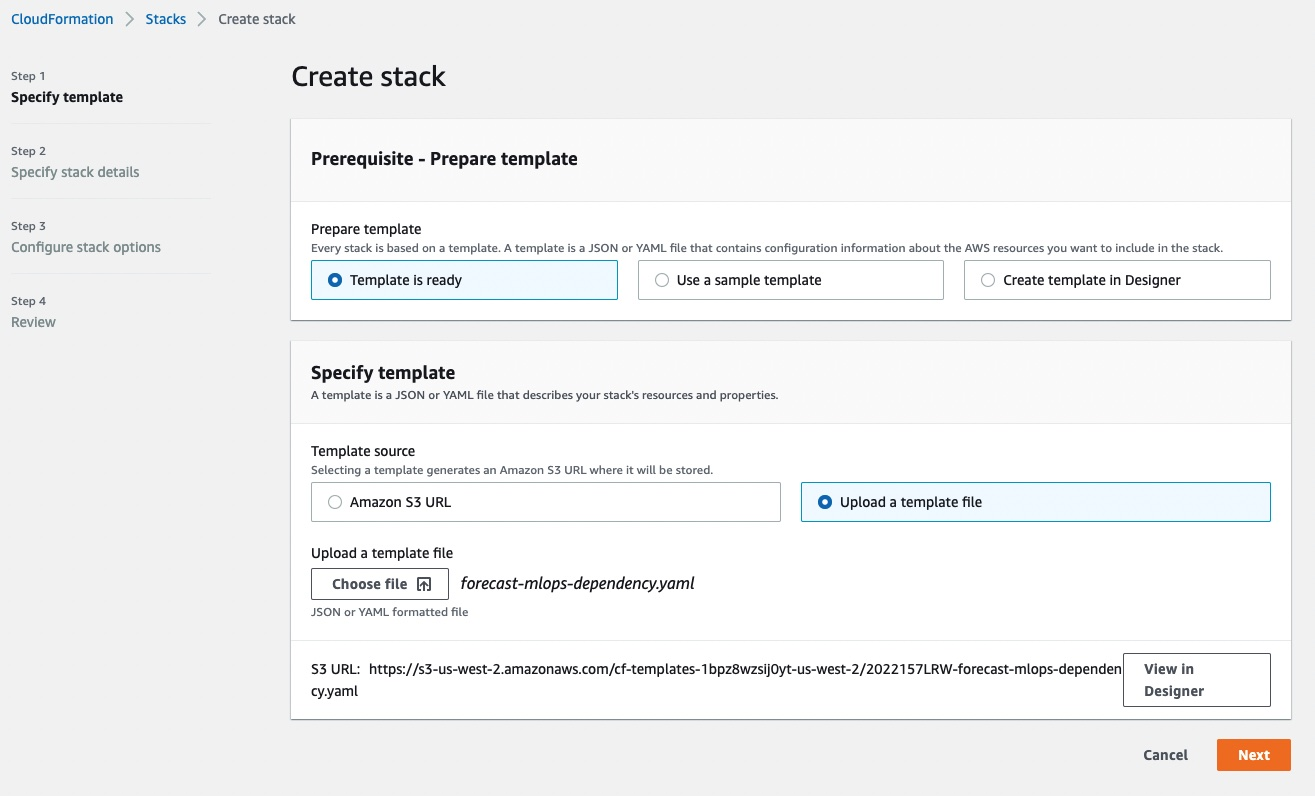
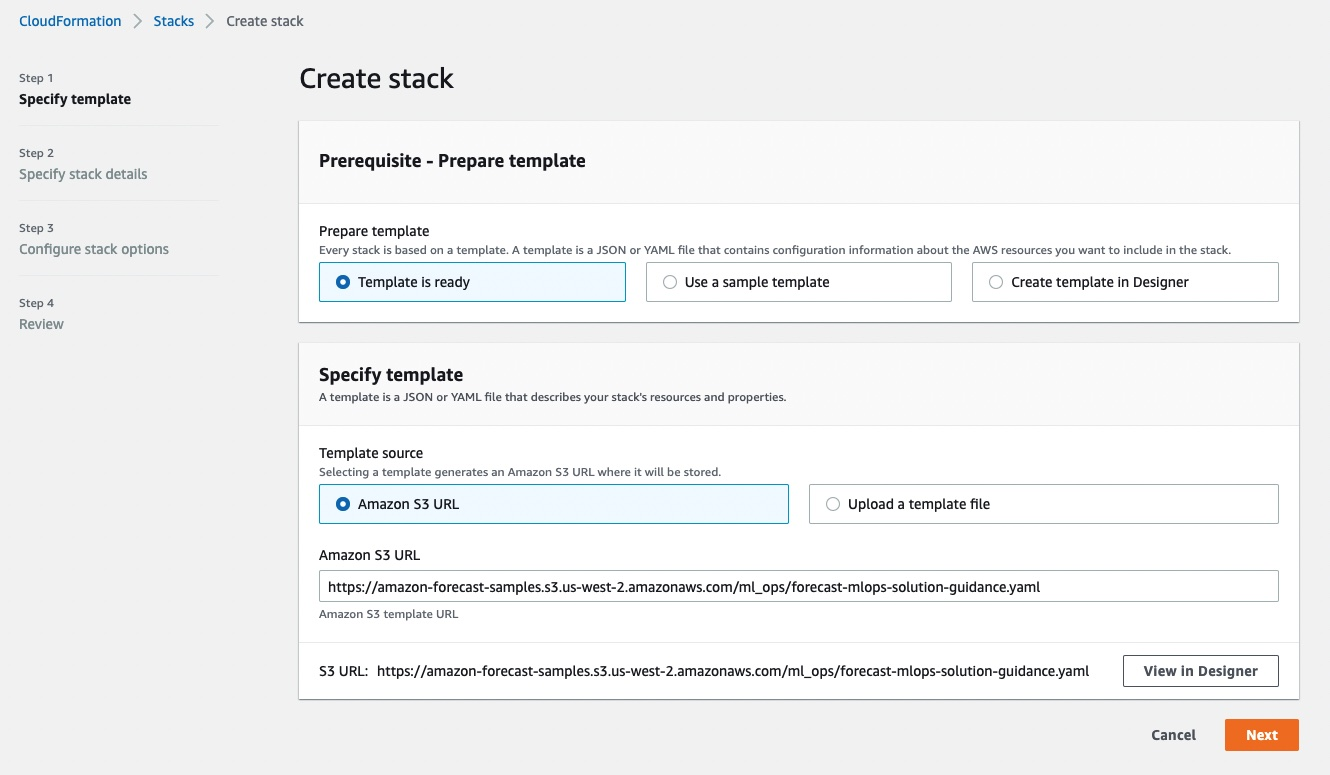
enabled optional item metadata and RTS datasets

diff --git a/ml_ops/SolutionGuidance.md b/ml_ops/SolutionGuidance.md
@@ -3,11 +3,16 @@
 You may repeat this process as a quick start for each use case you intend to deploy.  Each use case is separated by virtue of being an independent CloudFormation stack.
 
 1. In the AWS console, select the desired region for workload deployment.  The Amazon Forecast service is available in these [AWS Regions](https://docs.aws.amazon.com/general/latest/gr/forecast.html).  The region selector can be found, as a dropdown, right-of-center on the black menu bar in the AWS Console.  Choose the option that best meets your needs, but do take care to choose a region where AWS Forecast is available.
-2. From the AWS Console, navigate to the CloudFormation service.  You can do this by tying CloudFormation in the "search for services" control in the black menu bar.  Next, click the orange "Create Stack" button.
+2. From the AWS Console, navigate to the CloudFormation service.  You can do this by tying CloudFormation in the "search for services" control in the black menu bar.  Next, click the orange "Create Stack" button.  If using the drop down, select "with new resources (Standard)" option.
 
-3. At stack creation, "[Step 1: Specify template](./images/create-solution-guidance-stack-1.jpg)", in the specify template section, click upload template radio control and then provide the filename as forecast-mlops-solution-guidance.yaml.  If you haven't already, you may [download the file](forecast-mlops-solution-guidance.yaml) locally, and then specify the location of the files.  Click Next to continue.
+3. At stack creation, "[Step 1: Specify template](./images/create-solution-guidance-stack-1.jpg)", simply paste the URL string into the control as follows:
 
-4. At stack creation, "Step 2: Specify stack details", several parameters are collected that define how the entire workload behaves.  You can edit these according to each use case.  You might also elect to save a template with your own desired default values.  
+	 ```https://amazon-forecast-samples.s3.us-west-2.amazonaws.com/ml_ops/forecast-mlops-solution-guidance.yaml```
+
+	If needed, you may [download the file](https://amazon-forecast-samples.s3.us-west-2.amazonaws.com/ml_ops/forecast-mlops-solution-guidance.yaml) locally or clone using git.
+4. Click Next to continue.
+
+5. At stack creation, "Step 2: Specify stack details", several parameters are collected that define how the entire workload behaves.  You can edit these according to each use case.  You might also elect to save a template with your own desired default values.  
 
 As delivered, there is a demo set of data.  For learning, you may accept all these fields as-is, but you will need to provide a S3Bucket and SNSEndpoint value -- these are the only two blank items below.  If you are learning, you can skip to step 5; however, if you are configuring this for your use case, pay particular attention to each.  Many of these fields are editable later, to change how your workload behaves at runtime.
 
@@ -16,9 +21,11 @@ The following table helps define each parameter.
 | Parameter | Description | More Information |
 |--|--|--|
 | Stack name |  Provide the stack name as a short name that represents the use case.  This must be unique, please take care not to include characters other than A through Z and numbers 0 through 9.  Example stack names are:  workload1, RegionXYZWeeklyDemand. |
-|DatasetGroupFrequencyRTS|The frequency of data collection for RELATED TIME SERIES dataset||
-|DatasetGroupFrequencyTTS|The frequency of data collection for TARGET TIME SERIES dataset||
+|DatasetGroupFrequencyRTS|The frequency of data collection for RELATED TIME SERIES dataset|select from dropdown|
+|DatasetGroupFrequencyTTS|The frequency of data collection for TARGET TIME SERIES dataset|select from dropdown|
 |DatasetGroupName|Short name for dataset group, a self-contained workload.|[CreateDatasetGroup](https://github.com/awsdocs/amazon-forecast-developer-guide/blob/main/doc_source/API_CreateDatasetGroup.md)|
+|DatasetIncludeItem|Do you wish to provide item metadata for this use-case?|select from dropdown
+|DatasetIncludeRTS|Do you wish to provide a related time series (RTS) for this use-case?|select from dropdown
 | ForecastForecastTypes| When a CreateForecast job runs, this declares which quantiles to produce predictions for.  You may choose up to 5 values in this array.  Edit this value to include values according to need.| [CreateForecast](https://github.com/awsdocs/amazon-forecast-developer-guide/blob/main/doc_source/API_CreateForecast.md)
 |PredictorAttributeConfigs | For the target variable in Target Time Series each numeric field in the Related Time Series datasets, a record must be created for each time-interval for each item.  This configuration helps determine how missing records are filled in, with zeros, will NaN or otherwise. We recommend that you fill the gaps in the target time series with NaN instead of 0. Filling with 0, the model might learn wrongly to bias forecasts toward 0. NaN is how the guidance is delivered.  Consult with your AWS Solution Architect with any questions on this. | [CreateAutoPredictor](https://github.com/awsdocs/amazon-forecast-developer-guide/blob/main/doc_source/API_CreateAutoPredictor.md)
 |PredictorExplainPredictor| Valid values are TRUE or FALSE. These determine if Explainability is enabled for your predictor.  This can help you understand how values in the RTS and Item Metadata influence the model. | [Explainability](https://docs.aws.amazon.com/forecast/latest/dg/forecast-explainability.html)
@@ -37,8 +44,8 @@ The following table helps define each parameter.
 
 <br> Be sure to ask your AWS Solutions Architect for clarity, when in doubt.
 
-5. At stack creation, "Step 3: Configure stack options", go to the bottom of the page and click next.
-6. At stack creation, "Step 4: Review", there is no check the box with this iteration because there are no IAM resources created.   Click next.
+6. At stack creation, "Step 3: Configure stack options", go to the bottom of the page and click next.
+7. At stack creation, "Step 4: Review", there is no check the box with this iteration because there are no IAM resources created.   Click next.
 
 ## Confirm E-mail Subscription
 
